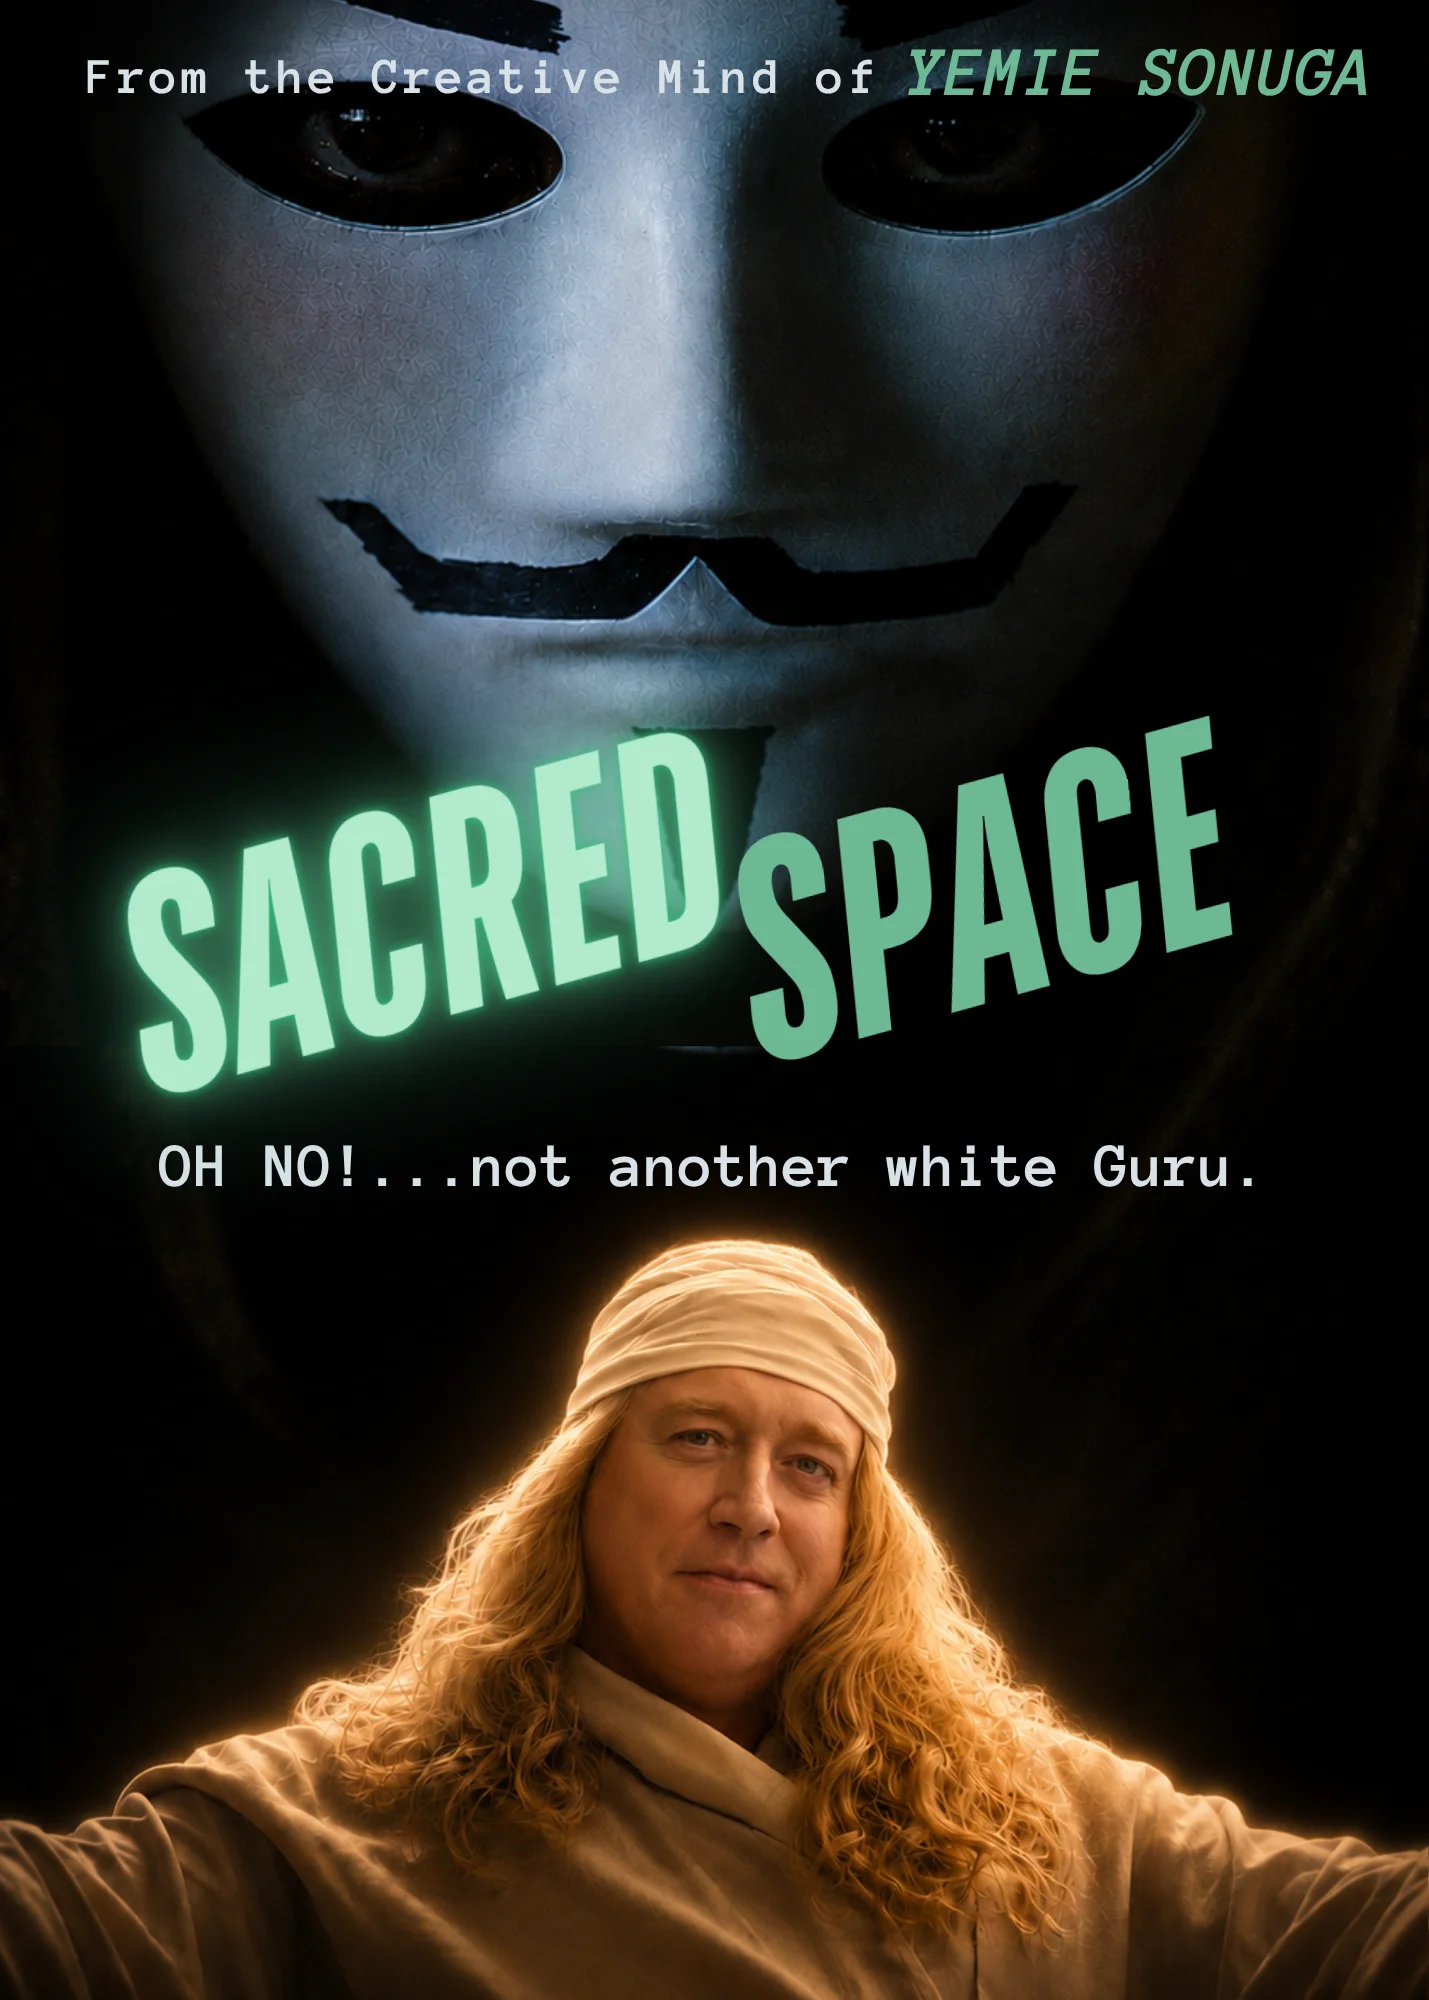
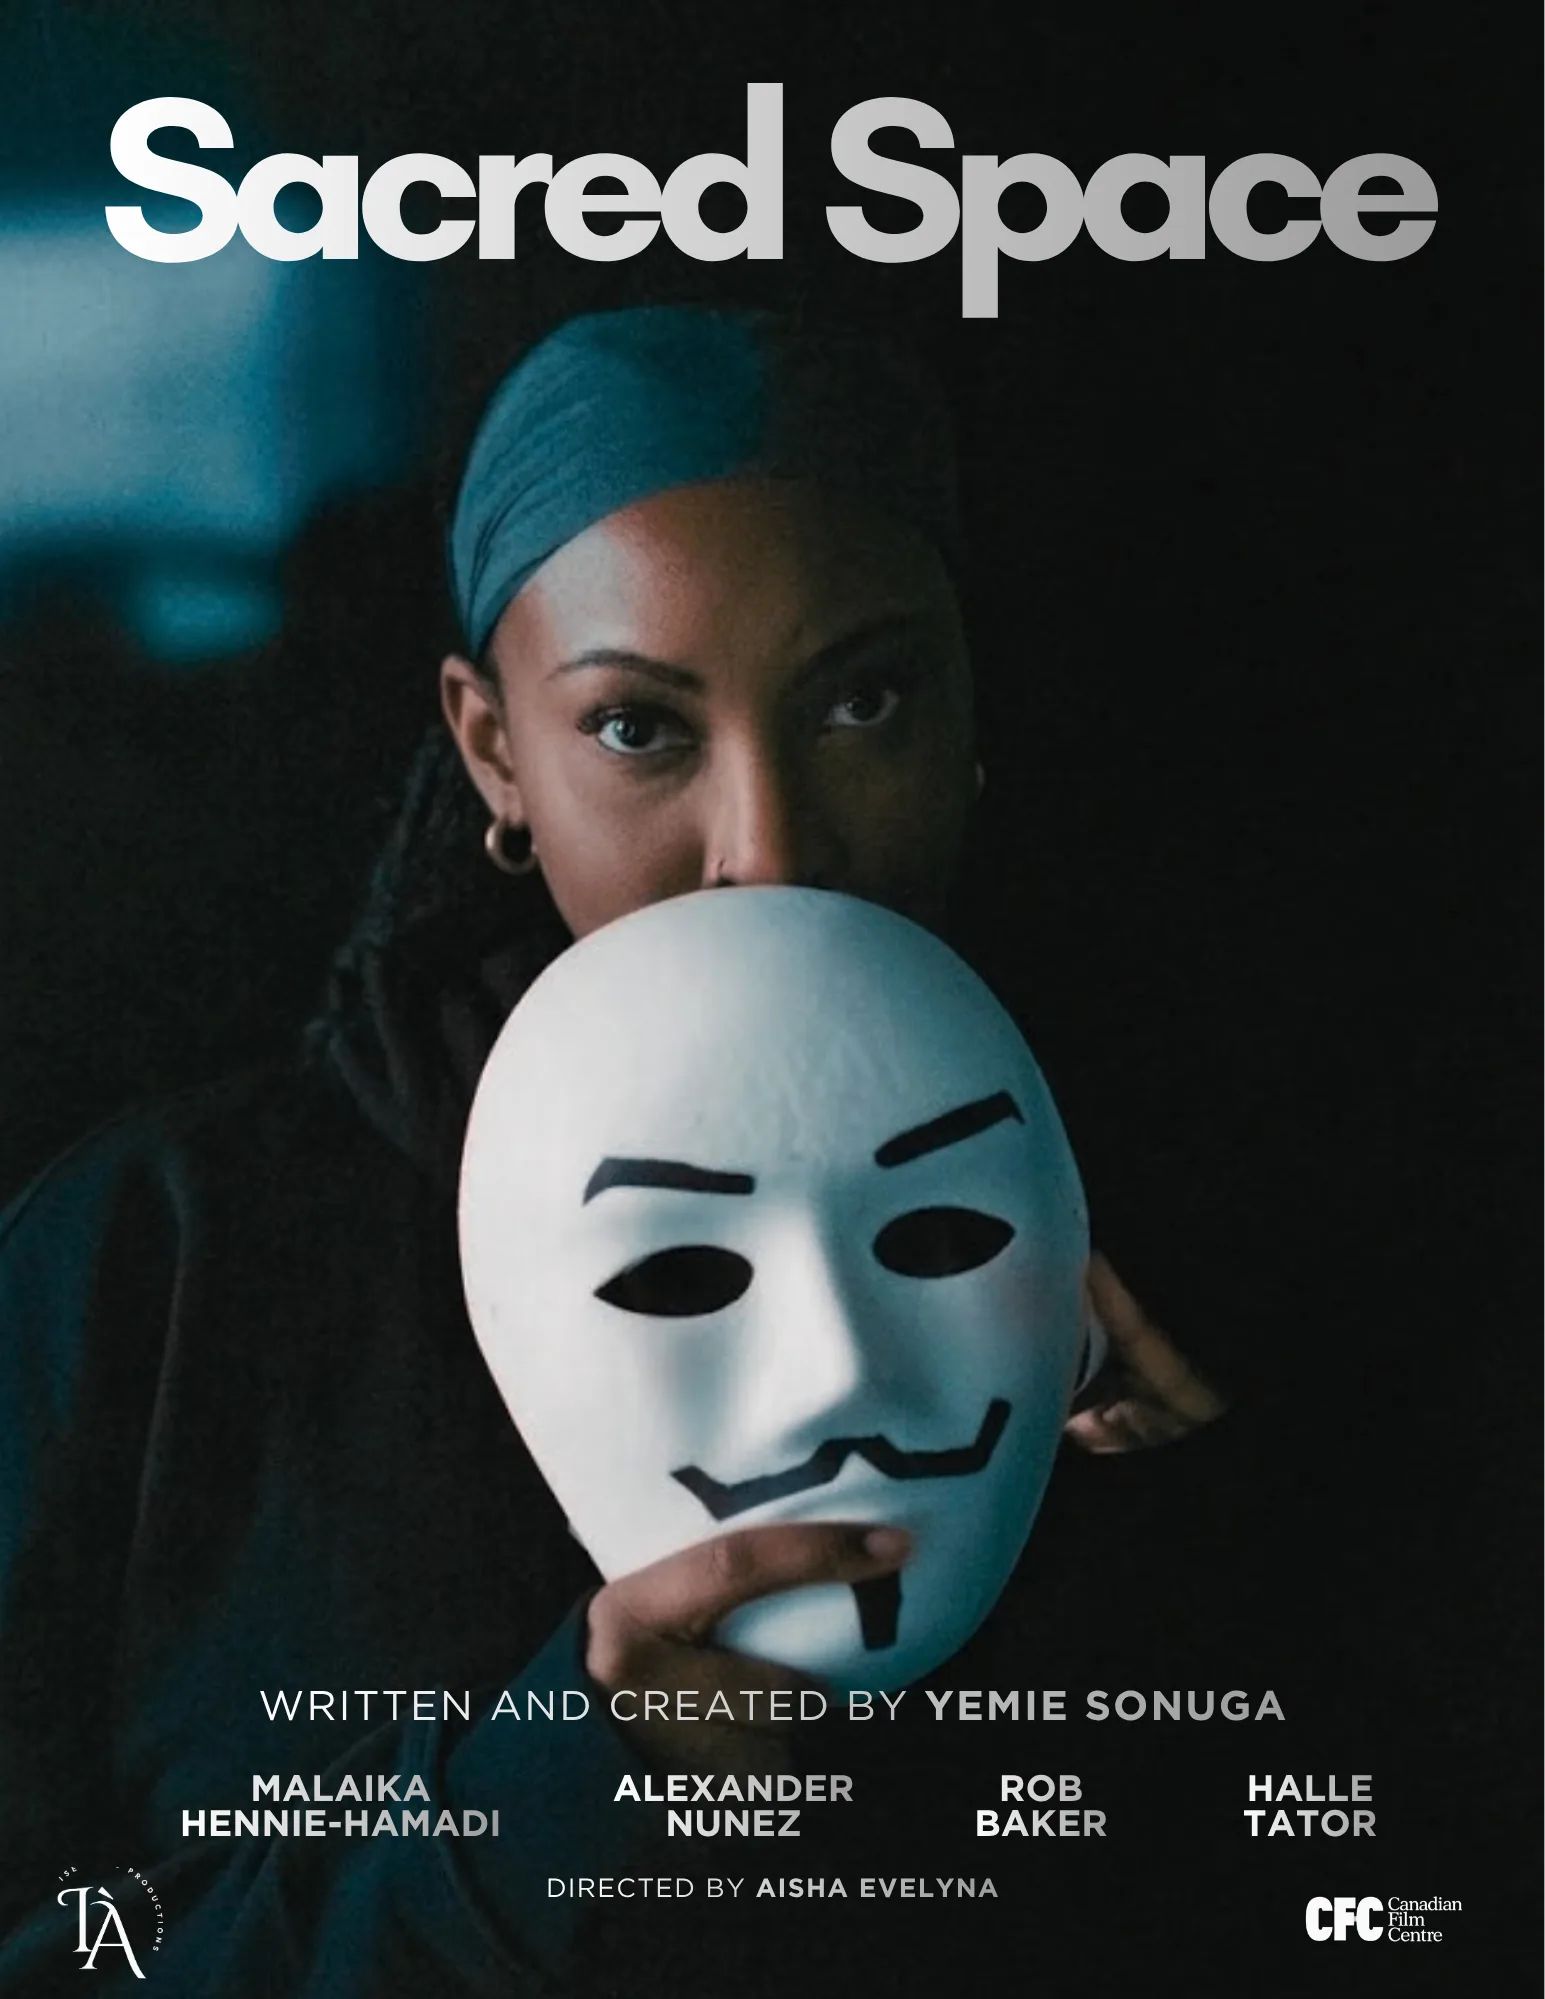
Add the new Sacred Space poster and place it after Alice is Asian

diff --git a/src/components/ProjectsCarousel.jsx b/src/components/ProjectsCarousel.jsx
@@ -267,16 +267,15 @@ const projectDetails = [
         imdb: "https://www.imdb.com/title/tt42903699/?ref_=fn_t_1",
         ytsrc: "https://www.youtube.com/watch?v=33IWPBDeorE",
     },
-    // Hidden pending client approval — restore when ready
-    // {
-    //     poster: "Sacred_Space_Poster",
-    //     title: "Sacred Space",
-    //     released: "2026",
-    //     director: "Aisha Evelyna",
-    //     writer: "Yemie Sonuga",
-    //     producer: "Kathryn Emslie (Executive Producer), Lee Marshall (Supervising Producer)",
-    //     ytsrc: "https://www.youtube.com/watch?v=o7QlFVR3c_A",
-    // },
+    {
+        poster: "Sacred_Space_Poster",
+        title: "Sacred Space",
+        released: "2026",
+        director: "Aisha Evelyna",
+        writer: "Yemie Sonuga",
+        producer: "Kathryn Emslie (Executive Producer), Lee Marshall (Supervising Producer)",
+        ytsrc: "https://www.youtube.com/watch?v=o7QlFVR3c_A",
+    },
     {
         poster: "Second_Coming_Poster",
         title: "Second Coming",
@@ -382,9 +381,9 @@ const collageOrder = [
     "Hockey Night in Canada",
     "Fluid",
     "Alice is Asian",
+    "Sacred Space",
     "Diana",
     "Don't Forget Me",
-    // "Sacred Space", // hidden pending client approval
     "Second Coming",
     "Shelf Life",
     "Boy Girl",
